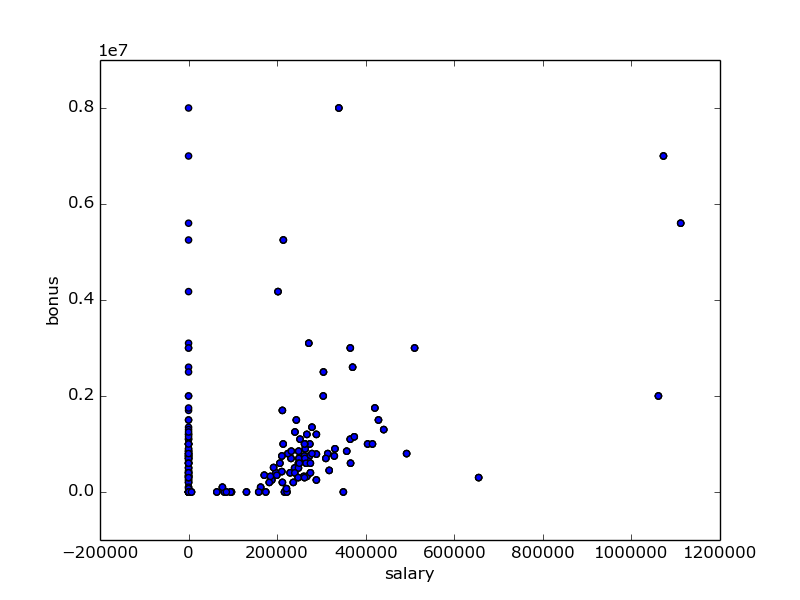
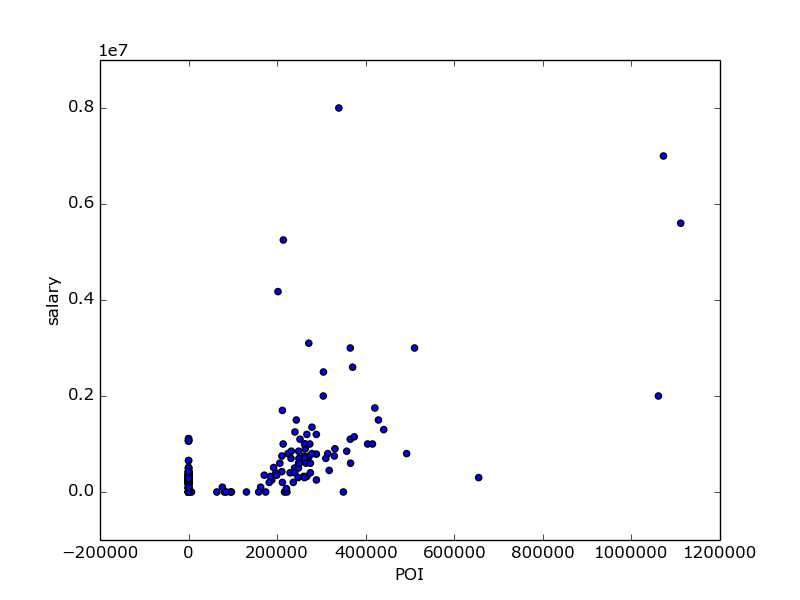
iPython notebook giving diff results

diff --git a/final_project/poi_id.py b/final_project/poi_id.py
@@ -16,7 +16,7 @@ features_list = ['poi', 'salary', 'bonus', 'from_poi_to_this_person', 'from_this
 ### Load the dictionary containing the dataset
 with open("final_project_dataset.pkl", "r") as data_file:
     data_dict = pickle.load(data_file)
-# data_dict.pop('TOTAL', 0)
+data_dict.pop('TOTAL', 0)
 data = featureFormat(data_dict, features_list)
 
 ### Task 2: Remove outliers
@@ -26,8 +26,8 @@ from sklearn.linear_model import LinearRegression
 # reg = LinearRegression.fit()
 
 for point in data:
-    x = point[1]
-    y = point[2]
+    x = point[0]
+    y = point[1]
     matplotlib.pyplot.scatter(x, y)
 
 matplotlib.pyplot.xlabel("salary")
